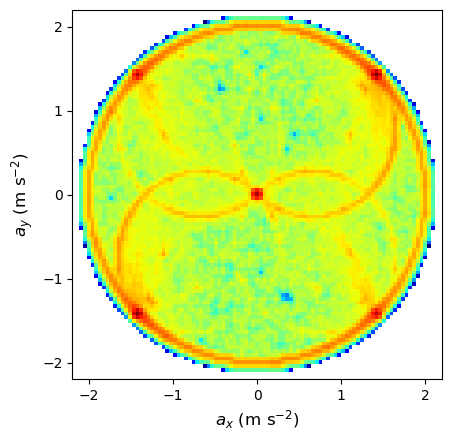
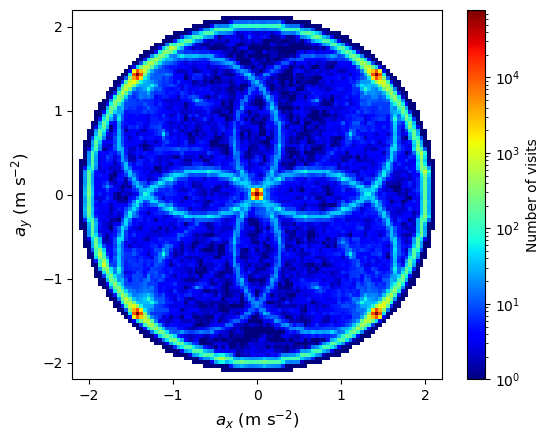
Better heatmaps

diff --git a/analysis/saturated_controller_cover.py b/analysis/saturated_controller_cover.py
@@ -15,7 +15,7 @@ genomes = np.fromfile(run + 'genomes.dat').reshape((fitnesses.shape[0], -1))
 with open(run + 'config.json') as f:
     config = json.load(f)
 
-config['dt'] = 0.001
+config['dt'] = 0.1
 
 # Add related parameters
 config['n_inputs'] = config['n_agents']*4 # Input neurons
@@ -64,52 +64,10 @@ extent = [xedges[0], xedges[-1], yedges[0], yedges[-1]]
 heatmap = gaussian_filter(heatmap, sigma=0.5)
 #plt.pcolor(heatmap.T,norm=matplotlib.colors.LogNorm(), cmap='jet')
 plt.imshow(heatmap.T, extent=extent, origin='lower', cmap='jet',norm=matplotlib.colors.LogNorm(),vmin=1)
-cbar = plt.colorbar()
-cbar.set_label('Number of visits')
-
-ax.set_xlabel(r'$a_x\ \mathrm{(m\ s^{-2})}$', fontsize=12)
-ax.set_ylabel(r'$a_y\ \mathrm{(m\ s^{-2})}$', fontsize=12)
-
 
 ax.set_box_aspect(1)
-plt.locator_params(nbins=5)
+plt.axis('off')
 
-plt.savefig('./figures/a_heat_{0}.png'.format(config['dt']), bbox_inches='tight')
-
-fig, ax = plt.subplots(1)
-
-
-
-
-''' Velocity & acceleration '''
-acceleration_c = np.diff(position_history,n=1,axis=0) / config['dt']
-
-print(acceleration_c.shape)
-
-print(acceleration_c.shape)
-acceleration_c = np.reshape(acceleration_c, (-1, 2))
-
-keep = np.linalg.norm(acceleration_c, axis=1) <= config['v_max']
-acceleration_c = acceleration_c[keep]
-
-xedges = np.linspace(-1.1, 1.1, 100)
-yedges = np.linspace(-1.1, 1.1, 100)
-
-heatmap, xedges, yedges = np.histogram2d(acceleration_c[:,0], acceleration_c[:,1], bins=(xedges, yedges))
-extent = [xedges[0], xedges[-1], yedges[0], yedges[-1]]
-
-heatmap = gaussian_filter(heatmap, sigma=0.5)
-#plt.pcolor(heatmap.T,norm=matplotlib.colors.LogNorm(), cmap='jet')
-plt.imshow(heatmap.T, extent=extent, origin='lower', cmap='jet',norm=matplotlib.colors.LogNorm(),vmin=1)
-cbar = plt.colorbar()
-cbar.set_label('Number of visits')
-
-ax.set_xlabel(r'$v_x\ \mathrm{(m\ s^{-1})}$', fontsize=12)
-ax.set_ylabel(r'$v_y\ \mathrm{(m\ s^{-1})}$', fontsize=12)
-
-ax.set_box_aspect(1)
-
-plt.locator_params(nbins=5)
-plt.savefig('./figures/v_heat_{0}.png'.format(config['dt']), bbox_inches='tight')
+plt.savefig('./figures/a_heat_map.png'.format(config['dt']), bbox_inches='tight')
 
 plt.show()
